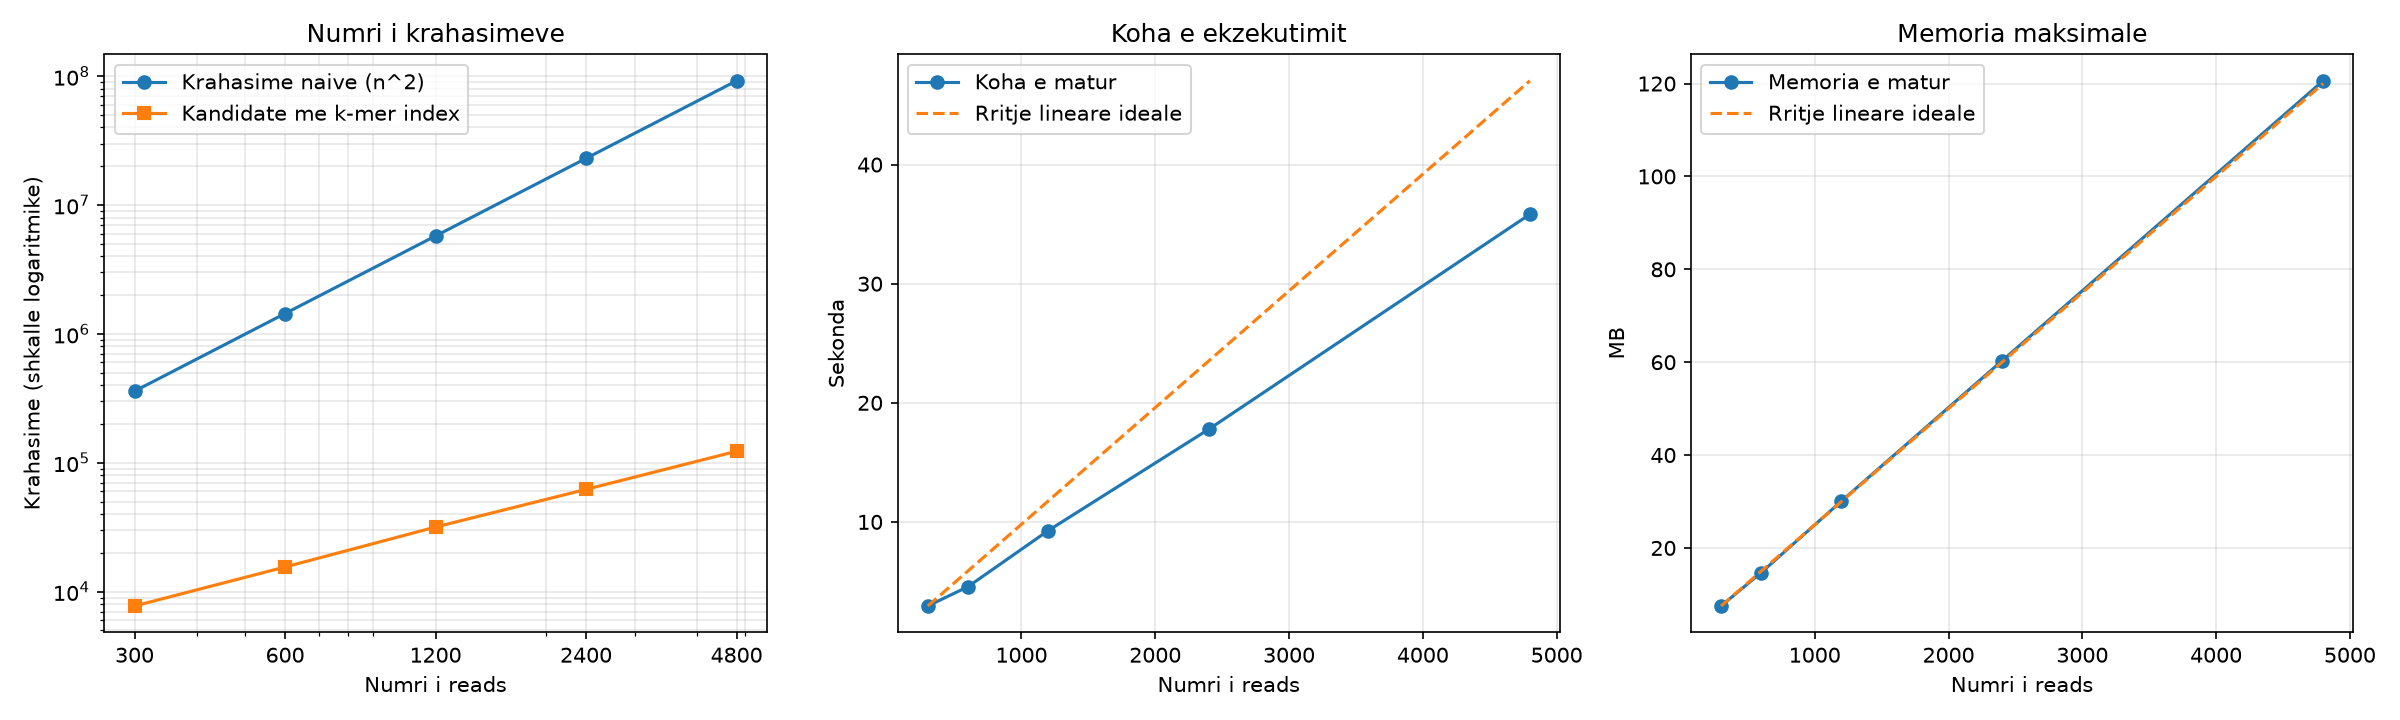
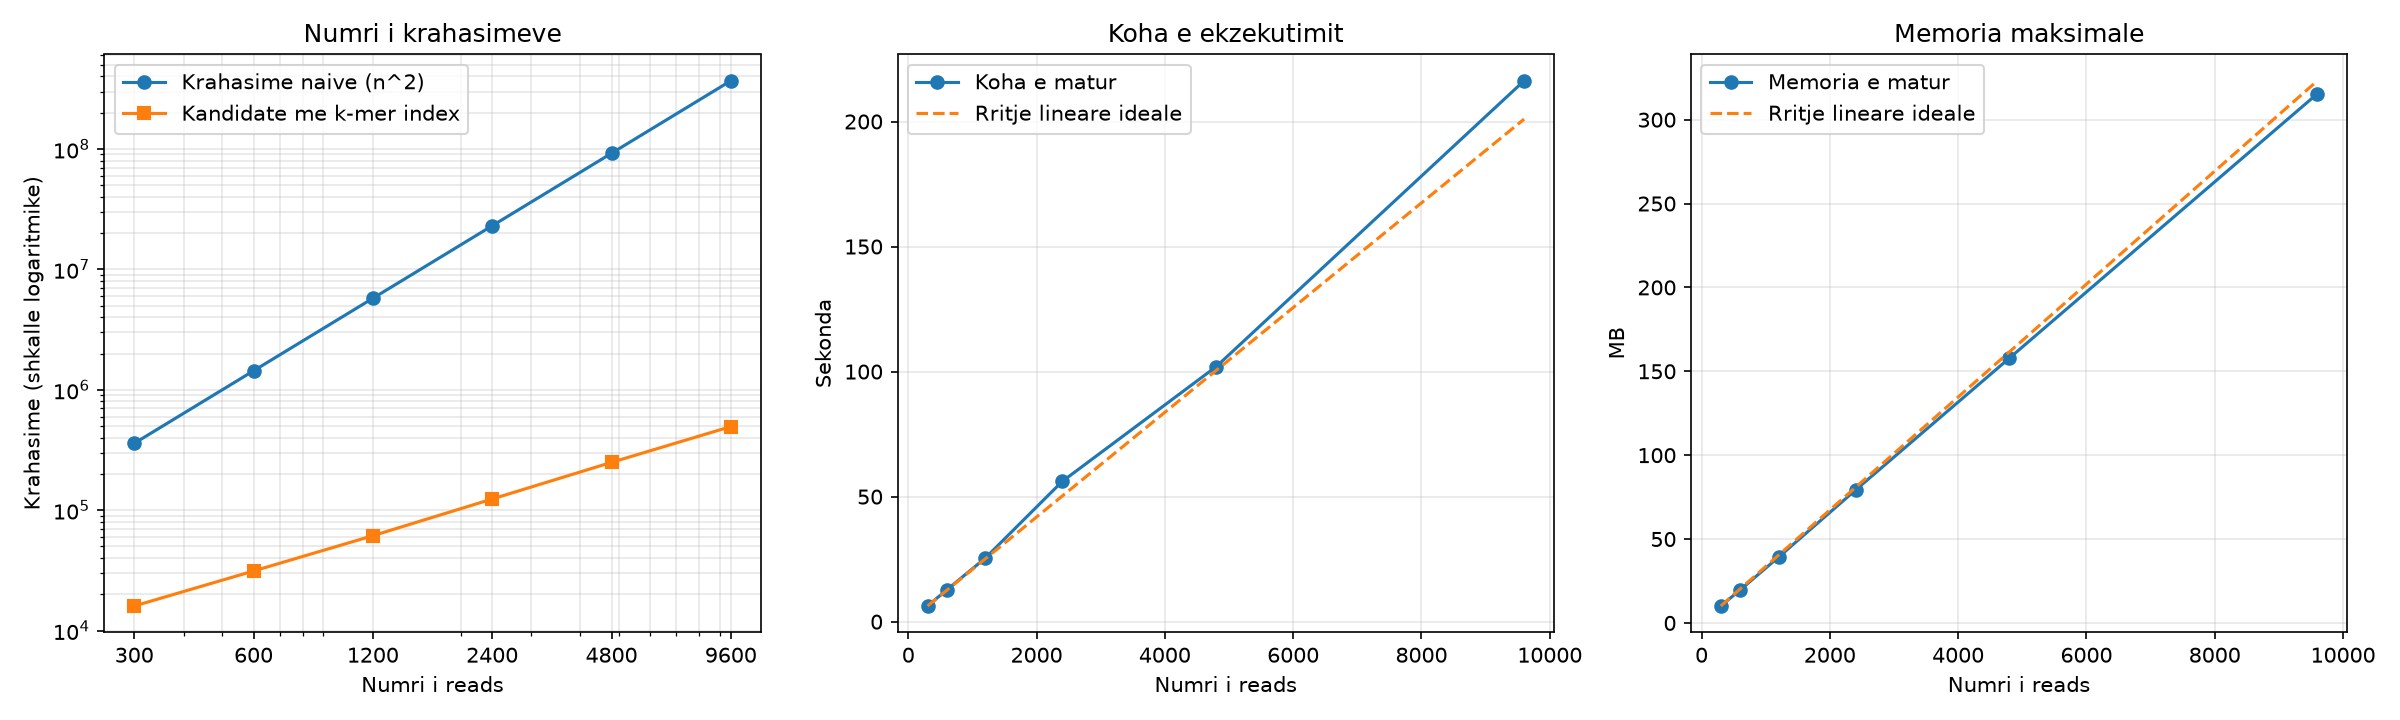
Update

diff --git a/README.md b/README.md
@@ -1,1 +1,87 @@
-# Alba-Jashanica---DNA-Genome-Reconstruction-from-Noisy-Sequencing-Reads-
+# Rindërtimi i genomit të ADN-së nga reads të zhurmshme
+
+## Për projektin
+
+Ky projekt rindërton një sekuencë ADN-je nga reads të shkurtra, të parenditura dhe me gabime. Ai demonstron përdorimin e indeksimit me k-mer, zbulimin e overlap-eve, grafit të overlap-eve, montimit greedy dhe consensus-it. Projekti gjithashtu simulon variante dhe mat kohën e memorien për madhësi të ndryshme të dataset-it.
+
+Të dhënat krijohen nga simulatori i projektit, prandaj rezultatet shërbejnë për demonstrim dhe vlerësim të algoritmit.
+
+## Si punon
+
+1. Krijohet një genom referencë dhe gjenerohen reads prej tij. Simulatori mund të shtojë gabime dhe të kthejë disa reads në orientimin reverse-complement.
+2. Krijohen të dy orientimet për secilin read dhe ndërtohet indeks k-mer për të gjetur shpejt reads që mund të mbivendosen.
+3. Kandidatët kontrollohen me edit distance për të vlerësuar cilësinë dhe gjatësinë e overlap-it.
+4. Overlap-et paraqiten si lidhje të peshuara në graf. Montimi greedy i bashkon reads në contig-e.
+5. Reads rreshtohen mbi contig-un kryesor. Consensus-i zgjedh bazat me mbështetjen më të madhe për të prodhuar sekuencën e korrigjuar.
+6. Sekuenca krahasohet me referencën e simuluar për të gjetur dhe vlerësuar zëvendësime, inserime dhe fshirje.
+
+## Skedarët
+
+| Skedari | Përshkrimi |
+|---|---|
+| `main.py` | Nis pipeline-in kryesor dhe paraqet statistikat. |
+| `simulator.py` | Gjeneron genom, reads, orientime dhe gabime të simuluara. |
+| `indexing.py` | Krijon orientimet e reads dhe indeksin k-mer. |
+| `overlap.py` | Gjen kandidatë dhe verifikon overlap-et. |
+| `graph.py` | Ndërton dhe analizon grafikun e overlap-eve. |
+| `assembler.py` | Ndërton grafikun për montim dhe krijon contig-e me metodën greedy. |
+| `consensus.py` | Rreshton reads, ndërton pileup dhe llogarit consensus-in. |
+| `mutations.py` | Simulon mutacione dhe krahason rindërtimin me referencën. |
+| `filtering.py` | Filtron variantet sipas mbështetjes nga reads. |
+| `scalability.py` | Teston projektin me numra të ndryshëm reads dhe ruan matjet në CSV. |
+| `plot_results.py` | Krijon grafikët nga `scalability_results.csv`. |
+| `reconstructed.fasta` | Shembull i sekuencës së rindërtuar. |
+| `variants_report.txt` | Shembull i raportit të varianteve. |
+| `scalability_results.csv` | Matje të ruajtura nga testi i shkallëzueshmërisë. |
+| `scalability.png` | Grafik i rezultateve të shkallëzueshmërisë. |
+
+## Ekzekutimi
+
+Kërkohet Python 3. Nga dosja e projektit, ekzekuto pipeline-in kryesor:
+
+```bash
+python main.py
+```
+
+Për të ndryshuar parametrat, për shembull:
+
+```bash
+python main.py --genome-len 2000 --reads 300 --read-len 100 --error-rate 0.01 --k 12 --min-overlap 30 --max-error 0.08
+```
+
+Programi shtyp raportin në terminal dhe ruan sekuencën te `reconstructed.fasta`, ndërsa variantet i ruan te `variants_report.txt`.
+
+## Testimi i shkallëzueshmërisë
+
+Për të matur performancën me disa madhësi dataset-i:
+
+```bash
+python -u scalability.py 5000 10000 20000 --out scalability_results.csv
+```
+
+Kjo komandë i ekzekuton testet me 5,000, 10,000 dhe 20,000 reads dhe i ruan rezultatet te `scalability_results.csv`. Nëse ky fajll ekziston, rezultatet e mëparshme mbishkruhen. Për një test më të shpejtë që mat vetëm fazat e indeksimit dhe montimit, shto `--no-consensus`:
+
+```bash
+python -u scalability.py 5000 10000 20000 --no-consensus --out scalability_results.csv
+```
+
+CSV-ja përfshin kohën, memorien, numrin e kandidatëve dhe overlap-eve, si dhe përqindjen e genomit të mbuluar nga contig-u më i gjatë. Kur përdoret `--no-consensus`, statistikat që varen nga consensus-i nuk llogariten.
+
+Për të krijuar grafikun nga `scalability_results.csv`:
+
+```bash
+python plot_results.py
+```
+
+Ky skript lexon pikërisht `scalability_results.csv` dhe ruan grafikun te `scalability.png`. Për të grafikuar rezultate nga një CSV tjetër, vendose atë me emrin `scalability_results.csv` para ekzekutimit.
+
+## Rezultatet e raportuara
+
+Pipeline-i raporton numrin e reads të përdorura, kandidatët dhe overlap-et e gjetura, cilësinë mesatare të overlap-eve, gjatësinë e rindërtimit, edit distance-in, saktësinë kundrejt mostrës, variantet e zbuluara, kohën e ekzekutimit dhe memorien maksimale të matur nga Python-i.
+
+## Kufizime
+
+Montimi greedy është heuristik dhe mund të mos zgjidhë saktë rajonet e përsëritura ose overlap-et e paqarta. Rezultatet varen nga parametrat dhe nga të dhënat e simuluara. Pipeline-i i tanishëm demonstron metodat mbi të dhëna të gjeneruara nga projekti; nuk është mjet i validuar për analiza klinike.
+
+
+
